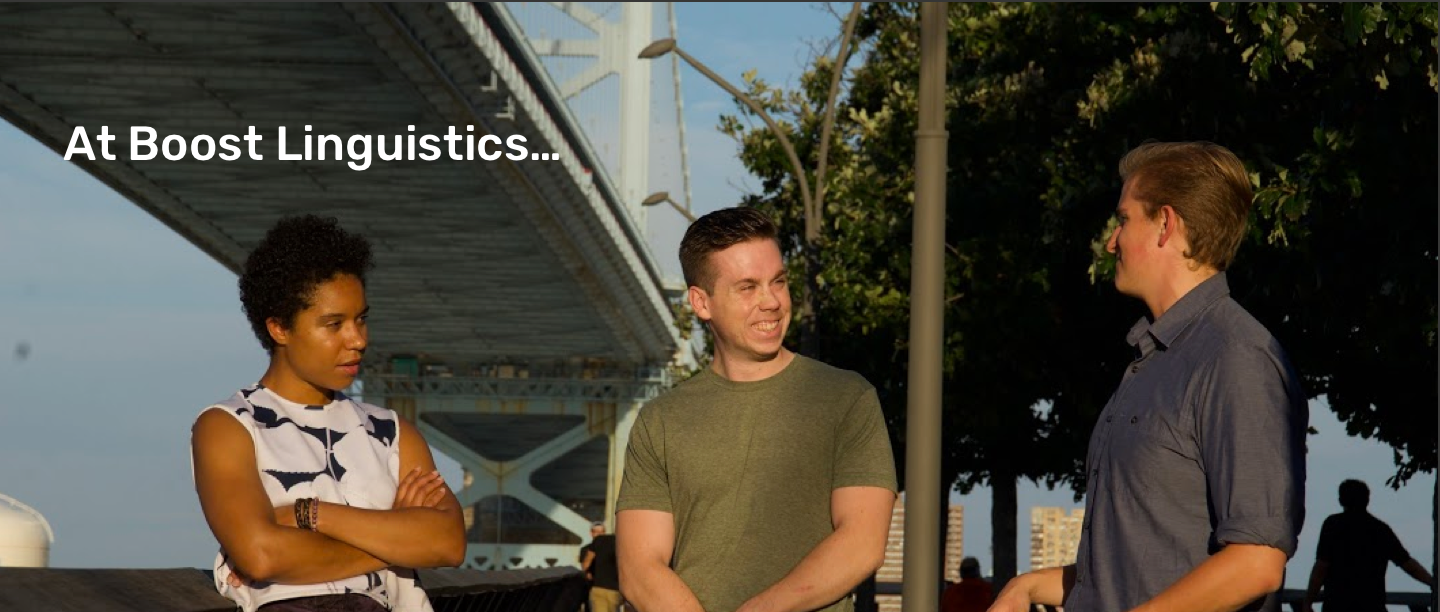
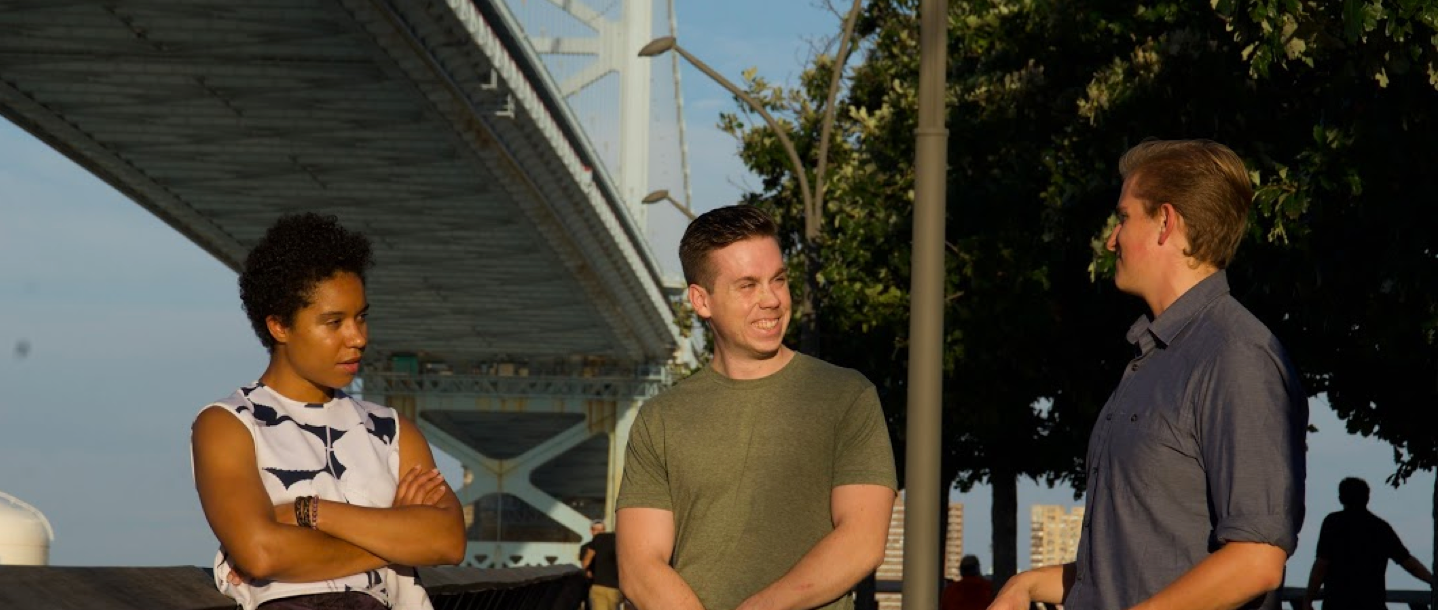
Made final changes

diff --git a/index.html b/index.html
@@ -34,7 +34,7 @@
             }
 
             a#link-1:hover{
-                color:#f19201;
+                color:#f16e3a;
                 text-decoration:none; 
                   
             }
@@ -67,6 +67,10 @@
                 color:#f16e3a;
                 text-decoration:none; 
 
+            }
+
+            .navbar-light .navbar-nav .nav-link {
+                color: white;
             }
 
             .open-sans{
@@ -105,7 +109,6 @@
                 display: block;
                 padding: 8px 8px 5px;
                 text-decoration: none;
-                /*font-weight: 400;*/
                 font-size: 16px;
             }
 
@@ -116,15 +119,15 @@
             }
 
 
-            #sign-up{
+            .sign-up{
 
                 border-radius: 100px;
                 width: 105px;
                 height: 32px;
                 font-size: 16px;
-                /*font-weight: 500;*/
                 background-color: #f16e3a;
                 border-color: #f16e3a;
+                color: white;
 
             }
 
@@ -179,7 +182,7 @@
             .vertically-centered-indented{
 
 
-                padding: 300px 0 300px;
+                padding: 100px 0 450px;
                 margin-left: 100px;
 
 
@@ -584,7 +587,7 @@
                   <a id="link-3" class="nav-link orange-font" style="color: #f16e3a;" href="#">Sign In</a>
               </li>
               <li style="margin-top: 2px;" class="nav-item">
-                  <button style="padding: 4px;" class="nav-link my-2 my-sm-0" type="button" id="sign-up"><a id="link-4" class="white-font" href = "">Sign up</a></button>
+                  <a id="link-1" href = ""><button style="padding: 4px;" class="nav-link my-2 my-sm-0 sign-up white-font" type="button" id="button-1">Sign up</button></a>
               </li>
             </ul>
           </nav>
@@ -594,7 +597,7 @@
         
         <div class="vertically-centered-indented">
           
-          <!--<h1 class="add-spacing">At Boost Linguistics ...</h1>-->
+          <h1 class="add-spacing">At Boost Linguistics ...</h1>
 
         </div>
         
@@ -605,7 +608,7 @@
         
         <div class="row justify-content-center row-padding">
             <div style="padding-top: 20px;" class="col-sm-5">
-              <h2 class="orange-font">...ideas come from anywhere and are constantly evolving.</h2>
+              <h2 class="orange-font" style="padding-bottom:30px">...ideas come from anywhere and are constantly evolving.</h2>
               <p style="font-family:Open Sans;">We approach things differently, bringing seemingly dispirate concepts together to create something new.</p>
               <p style="font-family:Open Sans;">We are unapologetic about who we are as individuals. We are unabashedly ourselves.</p>
               <p style="font-family:Open Sans;">Here, honesty is an obligation to each other and leadership is as much about supporting as it is directing.</p>
@@ -633,17 +636,16 @@
                 </div>
                 <div class="col-sm-3" style="padding: 12px 0 0 5px;">
                     <h2>Ethan Bresnahan</h2>
-                    <p style="font-family: Open Sans">Uniter of great ideas. Youngest lobster salesman in MA, and master LEGO architect.</p>
                     <p style="font-family: Open Sans; font-weight: bold;">Strategy and business development</p>
+                    <p style="font-family: Open Sans">Uniter of great ideas. Youngest lobster salesman in MA, and master LEGO architect.</p>
                 </div>
                  <div class="col-2">
                   <img class="img" src="alex.png">
                 </div>
                 <div class="col-sm-3" style="padding: 12px 0 0 5px;">
                   <h2>Alexandra Dodson</h3> 
-                  <p style="font-family: Open Sans">Drexel grad. Long distance dog lover. Proud Chicago native turned PHL resident.</p>
-                  <br>   
                   <p style="font-family: Open Sans; font-weight: bold;">Marketing and PR</p>
+                  <p style="font-family: Open Sans">Drexel grad. Long distance dog lover. Proud Chicago native turned PHL resident.</p>  
                 </div>
             </div>
             <div class="row justify-content-center row-padding" style="padding: 40px 0">
@@ -652,18 +654,16 @@
                 </div>
                 <div class="col-sm-3" style="padding: 12px 0 0 5px;">
                     <h2>Jeff Nowak</h2>
-                    <p style="font-family: Open Sans">PHL native dreaming of DUB. Stoic. Always learning.</p>
-                    <br>
                     <p style="font-family: Open Sans; font-weight: bold;">Product and sales</p>
+                    <p style="font-family: Open Sans">PHL native dreaming of DUB. Stoic. Always learning.</p>
                 </div>
                  <div class="col-2">
                   <img class="img" src="warren.png">
                 </div>
                 <div class="col-sm-3" style="padding: 12px 0 0 5px;">
-                  <h2>Warren Kushner</h3> 
-                  <p style="font-family: Open Sans">Philly native. Stuck here until I get my flux capacitor working.</p>
-                  <br>   
+                  <h2>Warren Kushner</h3>  
                   <p style="font-family: Open Sans; font-weight: bold;">AI and data science</p>
+                  <p style="font-family: Open Sans">Philly native. Stuck here until I get my flux capacitor working.</p>
                 </div>
             </div>
 
@@ -867,6 +867,11 @@
         </div>
 
       </footer>
+
+      <div class="copyright">
+            <span style="font-family: Open Sans; font-weight:bold" class="orange-font">Boost Linguistics &copy;</span> 
+            <p style="font-family: Open Sans" class="orange-font">Made with <img src="love.png"> in Philly</p>
+        </div> 
  
 
     </body>
